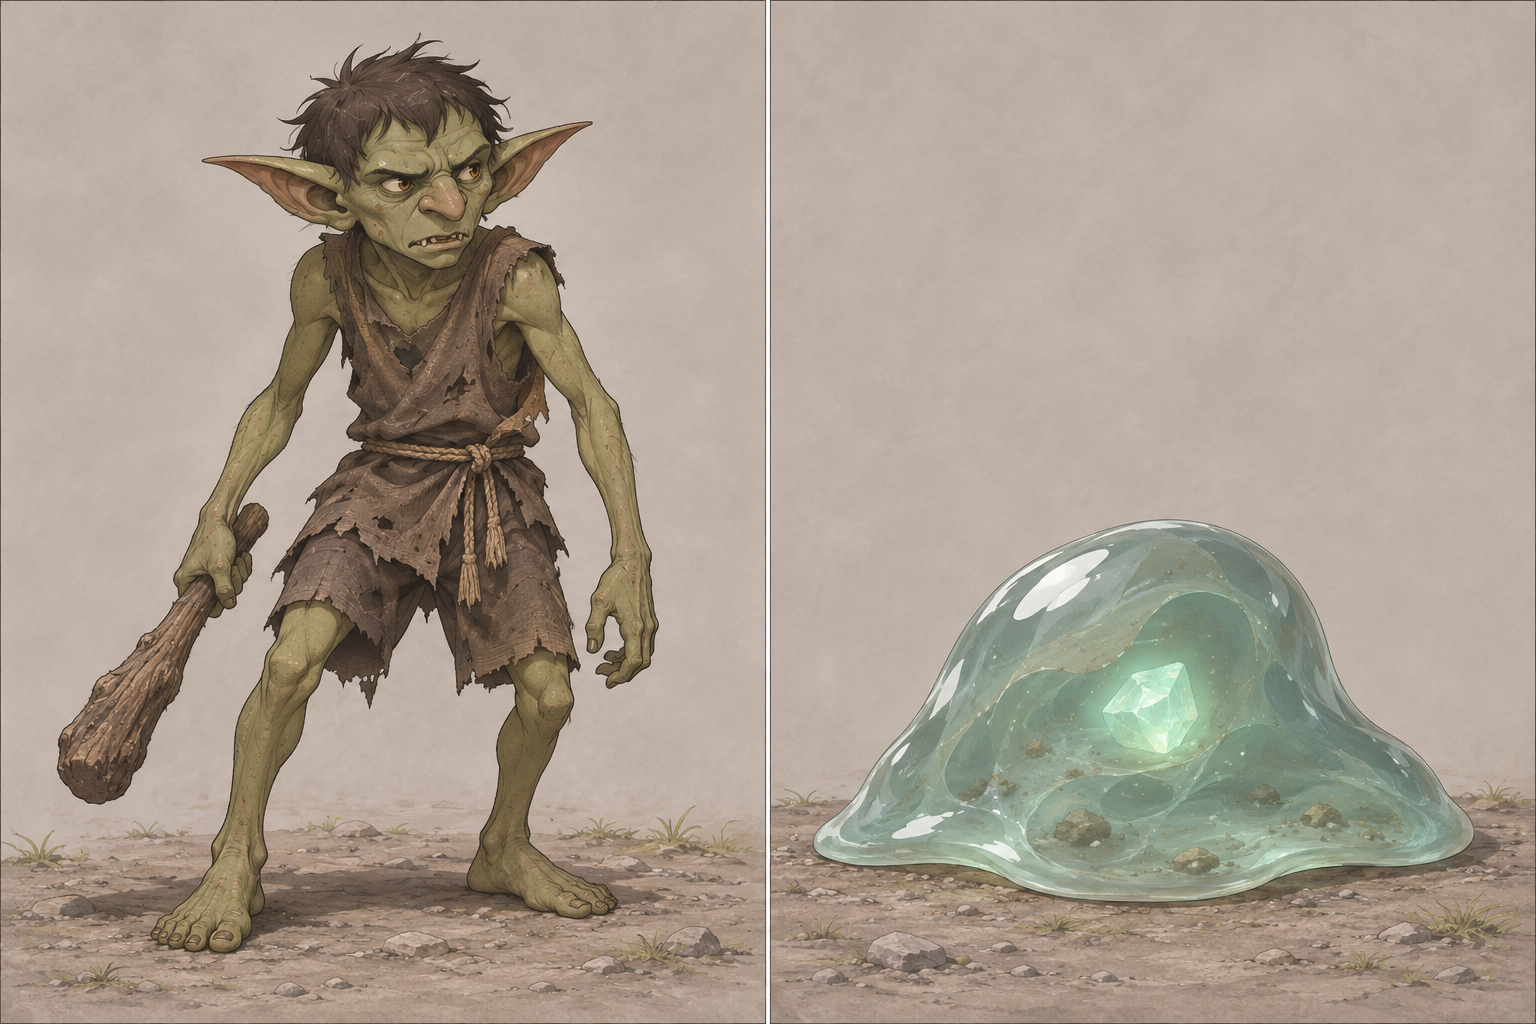
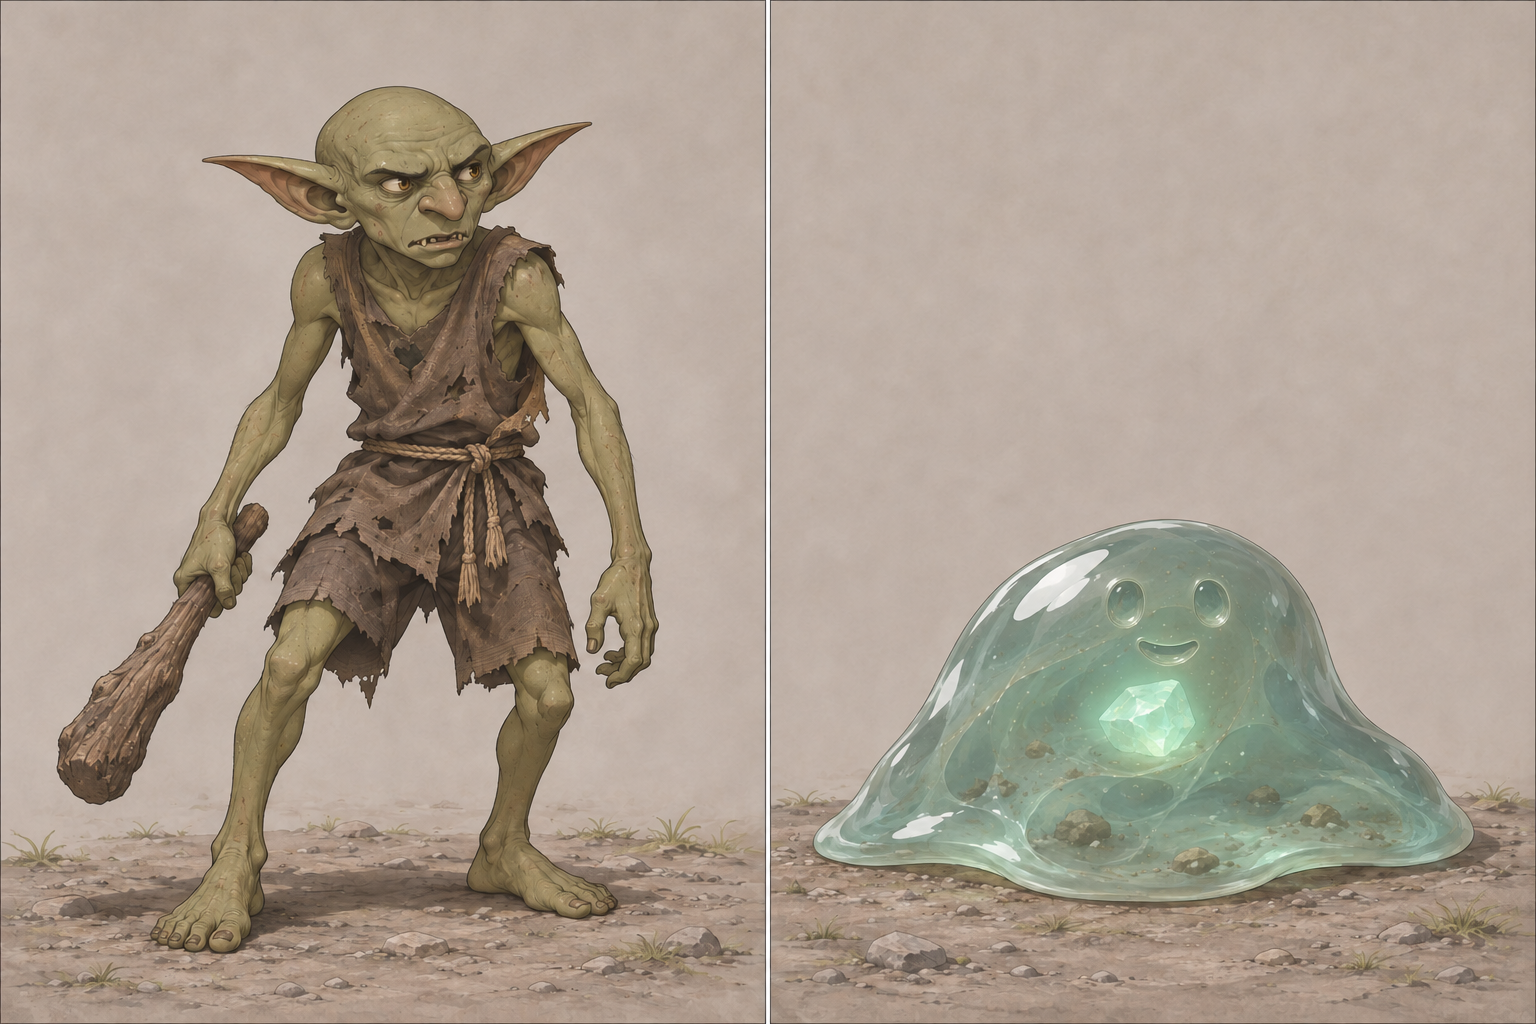
Revise goblin bald scalp and slime hollow face shapes

diff --git a/fantasy-rpg/WORLD_BIBLE.md b/fantasy-rpg/WORLD_BIBLE.md
@@ -856,3 +856,5 @@
 - 기본 초급 몬스터로 고블린과 슬라임을 제작한다. 기본 1성, 서식·수치·정수 후보·약점 등 앞선 설명의 상세는 제안 단계이다.
 - [기본 고블린·기본 슬라임 도감 원화](assets/basic-goblin-slime.png). 왼쪽은 작은 탁한 녹색 인간형에 긴 귀·해진 천옷·나무 몽둥이를 가진 고블린. 오른쪽은 작은 핵이 비치는 옅은 청록색 반투명 점액체 슬라임이다.
 - 몬스터 기본 시안 요청에 따라 원화만 제작했다. 개체 이름·추가 진화·전투 이벤트·정수 결과는 임의 확정하지 않았다. 아직 설치본 몬스터 도감이나 전투에 연결하지 않았다.
+
+- 기본 몬스터 외형 수정 확정: 고블린은 머리카락이 없다. 슬라임은 실제 눈·입 기관이 아니라 점액 내부의 빈 공간이 눈 두 개와 입처럼 보인다. 핵은 별도로 유지한다. 기존 원화를 수정본으로 교체했다.
